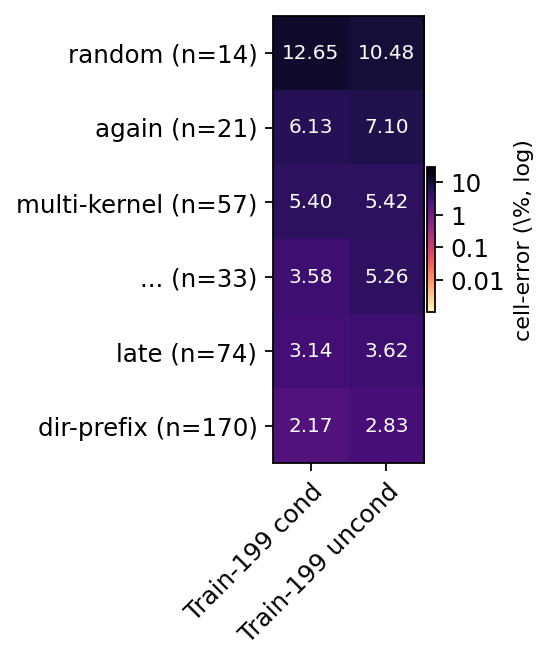
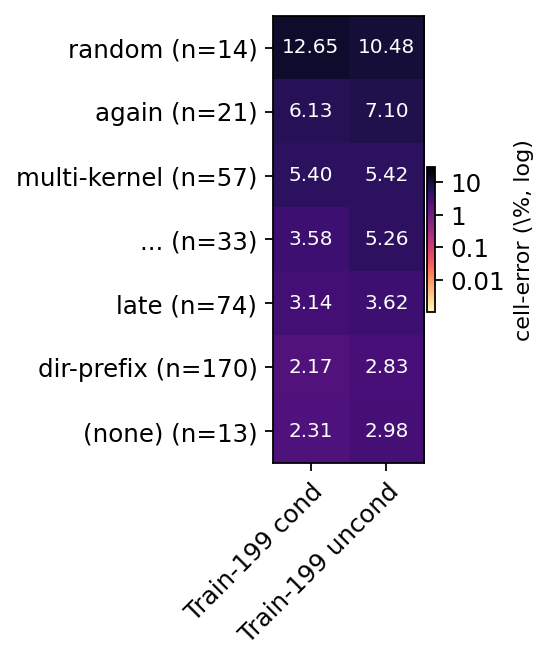
Paper: add (none) baseline row to rule-type heatmap
Added a synthetic seventh row at the bottom of the rule-type heatmap pooling the 13 Train-199 games that match none of the flagged features (random, again, multi-kernel, ..., late, dir-prefix). Mean cell-error is cond 2.31% / uncond 2.98% --- slightly *below* the corpus-wide 2.73% / 3.19% average, confirming that the flagged features are genuinely picking out the harder cases rather than partitioning the corpus arbitrarily.

Implementation: NONE_KEY / NONE_LABEL constants in rule_type_analysis.py; _per_preset_means now also computes the no-flag bucket; _emit_heatmap pins NONE_KEY at the bottom of the row order regardless of cell value.

Subfigure (b) caption mentions the (none) row; appendix prose extends with the comparison to the corpus-wide mean.

Total 34 pages.

diff --git a/nca_wm/scripts/rule_type_analysis.py b/nca_wm/scripts/rule_type_analysis.py
@@ -149,12 +149,17 @@ FEATURE_LABEL = {
     "has_dir":          r"dir-prefix",
     "has_multi_kernel": r"multi-kernel",
 }
+# Synthetic "no flagged feature" bucket; treated specially in the
+# heatmap so it sits at the bottom as a baseline reference.
+NONE_KEY   = "is_none"
+NONE_LABEL = "(none)"
 
 
 def _per_preset_means(feats: dict[str, dict[str, bool] | None]
                       ) -> dict[tuple[str, str, str], tuple[float, int]]:
-    """For every (preset, model, feature_yes_only), mean cell-error and bucket size.
+    """For every (preset, model, feature), mean cell-error and bucket size.
 
+    The synthetic key NONE_KEY refers to games with no flagged feature.
     Returns {(preset, model, feature_key) -> (mean_in_[0,1], n_games)}.
     """
     out: dict[tuple[str, str, str], tuple[float, int]] = {}
@@ -167,6 +172,13 @@ def _per_preset_means(feats: dict[str, dict[str, bool] | None]
                 out[(preset, model, fk)] = (
                     float(np.mean([err[g] for g in sub])), len(sub),
                 )
+        # Games with no flagged feature.
+        sub_none = [g for g, e in err.items()
+                    if feats.get(g) and not any(feats[g].values())]
+        if sub_none:
+            out[(preset, model, NONE_KEY)] = (
+                float(np.mean([err[g] for g in sub_none])), len(sub_none),
+            )
     return out
 
 
@@ -180,7 +192,8 @@ def _emit_heatmap(feats: dict[str, dict[str, bool] | None]) -> None:
     OUT_DIR.mkdir(parents=True, exist_ok=True)
     means = _per_preset_means(feats)
 
-    # Sort features by max cell value at Train-199, descending.
+    # Sort feature rows by max cell at Train-199 descending; pin the
+    # synthetic "(none)" baseline row at the bottom regardless of value.
     feature_keys = list(FEATURE_LABEL.keys())
     def _row_key(fk: str) -> float:
         cells = []
@@ -190,6 +203,7 @@ def _emit_heatmap(feats: dict[str, dict[str, bool] | None]) -> None:
                 cells.append(v[0])
         return -max(cells) if cells else 0.0
     feature_keys.sort(key=_row_key)
+    feature_keys.append(NONE_KEY)
 
     n_rows = len(feature_keys)
     n_cols = 2 * len(PRESETS)
@@ -226,7 +240,8 @@ def _emit_heatmap(feats: dict[str, dict[str, bool] | None]) -> None:
     for fk in feature_keys:
         v = means.get(("Train-199", "cond", fk))
         n = v[1] if v else 0
-        ylabels.append(f"{FEATURE_LABEL[fk]} (n={n})")
+        label = NONE_LABEL if fk == NONE_KEY else FEATURE_LABEL[fk]
+        ylabels.append(f"{label} (n={n})")
     ax.set_yticks(range(n_rows))
     ax.set_yticklabels(ylabels)
     ax.set_xticks(range(n_cols))

diff --git a/nca_wm/paper/sections/appendix.tex b/nca_wm/paper/sections/appendix.tex
@@ -819,7 +819,12 @@ local update body cannot see the relevant context. Across all
 features, raw rule count remains a poor predictor: 1--3, 4--7, 8--12,
 and 13+ rule buckets give cond means $1.38, 1.12, 4.17, 6.77$\% with
 the cond/uncond ordering even \emph{flipping} on the higher-count
-buckets ($n{\geq}8$).
+buckets ($n{\geq}8$). For comparison, the $13$ \textsc{Train-199}
+games with no flagged feature
+(Figure~\ref{fig:rule-type-heatmap}'s \texttt{(none)} row) average
+cond $2.31\%$ / uncond $2.98\%$, slightly below the corpus-wide
+$2.73\%$ / $3.19\%$ average---the flagged features really are
+picking out the harder cases.
 
 \begin{table}[t]
   \centering

diff --git a/nca_wm/paper/sections/results.tex b/nca_wm/paper/sections/results.tex
@@ -226,8 +226,10 @@ collapses entirely.
     \centering
     \includegraphics[height=5.5cm]{figures/rule_type_analysis/rule_type_heatmap.pdf}
     \caption{\textsc{Train-199} games bucketed by rule-section
-      feature; $n$ is the bucket size, rows ordered by
-      $\max(\text{cond},\text{uncond})$ descending.}
+      feature; $n$ is the bucket size, feature rows ordered by
+      $\max(\text{cond},\text{uncond})$ descending. The bottom
+      \texttt{(none)} row pools the $13$ games with no flagged
+      feature as a baseline reference.}
     \label{fig:rule-type-heatmap}
   \end{subfigure}
   \caption{\textbf{ID 1-step (TF) cell-error (\%) on a shared
